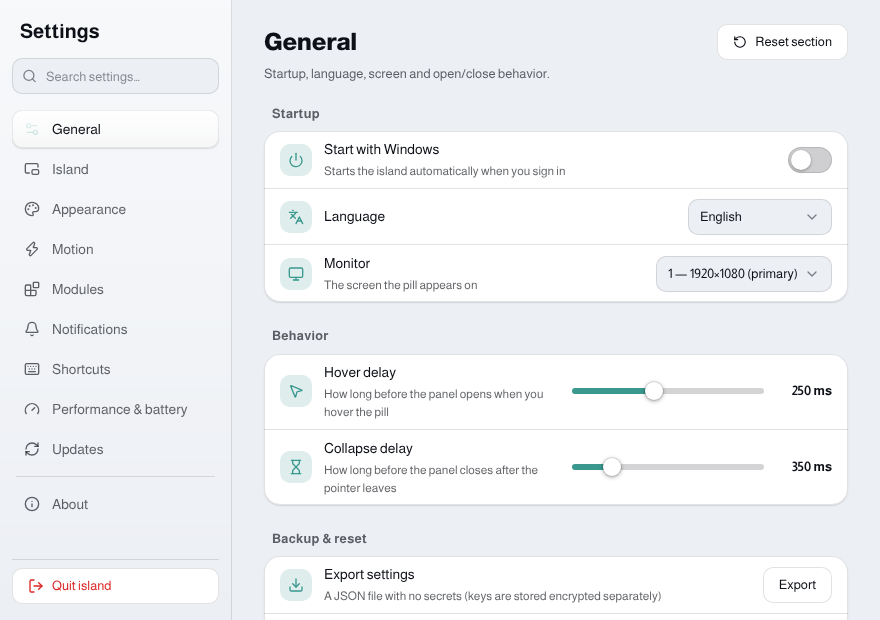
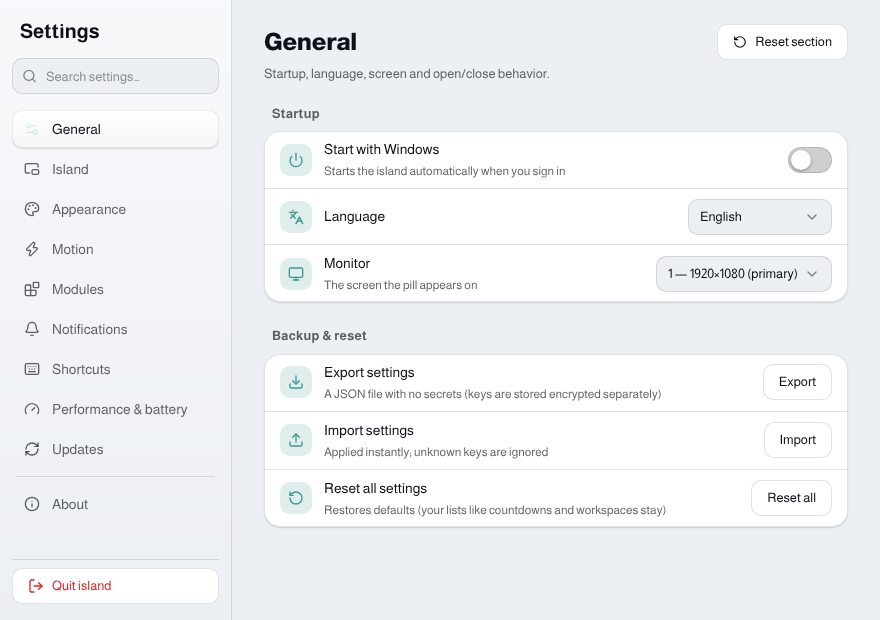
docs+screens: T03/T04 status, acceptance checklist, screenshots, package scripts
Claude-Session: https://claude.ai/code/session_0195km4LqoNMTRS3HcD7VYAG

diff --git a/docs/STATUS.md b/docs/STATUS.md
@@ -1,4 +1,5 @@
 # حالة المشروع
+- **T04 glass:** السبب الجذري (تحقّق بقراءة الكود): الأكريليك الأصلي (SWCA) هو الآلية الوحيدة التي تمزج سطح المكتب خلف نافذة غير نشطة، وCSS `backdrop-filter` لا يرى سطح المكتب (WebView2Feedback #4945) ⇒ كان «الشفاف» مستثنى من الأكريليك بصبغة مسطّحة منخفضة الألفا (ورقة باهتة)، و«Fluent Mica/Liquid» لا يختلفان عن Crystal إلا بقيم blur/saturation معطّلة، وكل انتقال يمرّ بسطح ~0.62 بلا تمويه، وشرط `opacity ≥ .99` يمنع الأكريليك عند الشفافية < 100. **الإصلاح:** `backdrop.rs` (Style Frosted/Clear + `style_alpha` + صبغة ABGR، المفتاح بلا الأسلوب فتحديث الصبغة بلا مسح) · `island_backdrop(…, style)` (IPC.md) · `useBackdrop.ts`/`Pill.tsx` (الأسلوبان يطلبان الأكريليك، `ready = … opacity > 0`، حالة `pending`) · `island.css` (سطح واحد: شفاف عند win10، شبه معتم .92–.96 عند pending/none/الاحتياط، تلاشٍ 160ms، لا backdrop-filter ولا ::after) · `appearance.ts` (أربعة إعدادات مسبقة حقيقية frosted/smoked/clear/minimal بلا blur/saturation) · الإعدادات (حذف منزلقي blur/saturation، بطاقات خلفية بمعاينات صحيحة) · ترحيل v3 (glassStyle المفقود ⇒ crystal). **اختبارات:** `npm run test:glass` · `test:appearance` · `scripts/t04.regression.cjs` · cargo (اختبارات `backdrop.rs` النقية في crate Linux منفصل + `cargo check --target x86_64-pc-windows-gnu` بلا تحذيرات). **قائمة قبول على ويندوز:** (1) Frosted داكن/فاتح فوق صفحة متصفح مزدحمة: سطح المكتب مموَّه ظاهرًا بلا ورقة حليبية والنص مقروء. (2) Clear داكن/فاتح: سطح مكتب مموَّه بتظليل خفيف (ليس غشاءً مسطّحًا). (3) فتح/إغلاق اللوحة 10×: لا وميض باهت (سطح شبه معتم يتلاشى إلى الأكريليك). (4) كل إعداد مسبق من الأربعة مختلف وصحيح؛ منزلق التظليل يتغيّر حيًّا بلا وميض. (5) opacityRest=80: الأكريليك مطبَّق. (6) «تأثيرات الشفافية» OFF في ويندوز: سطح شبه معتم بلا غشاء؛ ON: يعود الأكريليك. (7) العيون كما هي. *لم يُنفَّذ تلميح «تأثيرات الشفافية مطفأة» تحت المادة: يحتاج قراءة نتيجة island_backdrop من نافذة الإعدادات (IPC جديد) — تُرك وفق التعليمات.*
 - **T03 (إعادة تصميم الجزيرة):** (1) ثلاث حالات pill/peek/panel بآلة حالات خالصة `src/islandMachine.ts` (مهلة فتح hoverDelayMs، إغلاق 300/500ms، عجلة بخنق 280ms، لمحة بأربع بطاقات player/today/weather/timer بترتيب `peekCardOrder`، عجلة اللوحة تقلّب التبويبات بلا التفاف ولا خطف من قائمة تمرَّر) + نوابض مشتقة `src/islandMotion.ts` (stiffness=(2π/d)²، damping=4π(1−b)/d، mass 1؛ لمحة (d,b)، لوحة (1.1d,b)، إغلاق (0.9d,0) — الجدول المرجعي للأنماط الخمسة مُختبر في `scripts/island.test.mjs`). (2) النافذة الأصلية ثابتة 800×500 شفافة؛ `report_island_rect` يضبط منطقة النافذة (اختبار إصابة حقيقي بلا استطلاع) ولا يغيّر حجمها أبدًا (`win.rs`/`backdrop.rs`). (3) المشغّل: غلاف/تدرّج لون من الغلاف (fast-average-color)/خلفية ضبابية/مؤشر bars|wave من `media:bands` أو اصطناعي/شارة مصدر/تقدّم 1ث بـscaleX/أزرار؛ حلقة rAF فقط أثناء التشغيل والظهور ثم تهبط وتتوقف. (4) تبديل المحتوى: خروج 120ms ثم دخول 240/300ms (÷motionSpeed)، تقليل الحركة ⇒ قفز الحجم + تلاشٍ 150ms (أُصلح أيضًا: قاعدة CSS للوضع reduced كانت تُنعّم width/height). (5) العيون كما هي (تتلاشى مع المحتوى وتعود) — اختبار مطابقة للأساس `scripts/eyes.baseline.json`. (6) الإعدادات: صفوف جديدة في الجزيرة/المظهر/الحركة/الوسائط + ترحيلات (انظر IPC.md). (7) لا تداخل: تدقيق هندسي لكل العروض `scripts/layout.regression.cjs` (حبة/لمحة/لوحة بكل تبويب/إعدادات، RTL، عناوين طويلة) — وأُصلح تداخل بطاقات الرئيسية بتمرير داخلي وشريط تبويبات يمرَّر أفقيًا.
 - **T02 (تقرير المالك على v1.0.45):** (1) `settings_set` كان يعيد التموضع لـ`monitor/offsetX/underTaskbar` فقط ⇒ `offsetY/pillPosition` بلا أثر؛ أُضيفا + إعادة تموضع عند تغيّر الشاشات/DPI/منطقة العمل (`fullscreen.rs` نافذة مخفية) وعند الإقلاع. (2) «تحت شريط المهام» أُزيل: لا أثر له إلا لشريط مهام علوي (غير ممكن في ويندوز 11)؛ الموضع دائمًا من منطقة العمل. (3) `hideInFullscreen` أُعيدت كتابته حدثيًا (`fullscreen.rs`): SHQueryUserNotificationState + مستطيل يغطي الشاشة بلا شريط عنوان، إخفاء كلي، لمس الحافة العليا يُظهر والمغادرة تُخفي، بلا استطلاع في الخمول. (4) وضع تبويب المتصفح أُزيل كاملًا (+ حذف المفتاح من kv). (5) الزجاج: سبب «الورقة الباهتة» تراكب طبقات (تدرّج أبيض + ::after + بطاقات بـbackdrop-filter فوق الأكريليك) ⇒ سطح واحد لكل أسلوب (انظر GLASS.md)؛ لقطات `docs/screenshots/style-*`. (6) `springStyle` يحكم كل النوابض (لا island/content فقط) و`reduceMotion`/تفضيل النظام يقلّصان لتلاشٍ قصير؛ `scripts/motion.regression.cjs` يقيس فتح اللوحة: حاد ≈220ms · ناعم ≈310 · هادئ ≈390. (7) أوصاف سطر واحد (عربي أولًا) لكل إعداد غير بديهي. (8) «اليوم»: لم يُعاد إنتاج العطل في الاختبار (الرئيسية والنظام يتبعان المفتاح فورًا — `t02.regression.cjs`)؛ وُضِّح نطاق المفتاح (بطاقة الهجري/الصلاة؛ الطقس بمفتاحه). (9) الطقس: الإخفاق الصامت (offline ⇒ لا بلاطة، وEco يمنع الجلب بلا إشعار) استُبدل بحالة خطأ صريحة + إعادة محاولة؛ مدينة مستقلة `weatherCity` الافتراضية المدينة المنورة؛ إعادة محاولة نقل + قيمة قديمة عند الفشل؛ لم أستطع اختبار الشبكة الحقيقية من هنا. (10) الكلمات أُزيلت كاملة. (11) أصوات التنبيه: 5 أصوات مولَّدة بـWebAudio + «بلا صوت» + معاينة + مستوى (`docs/ASSETS.md`).
 - **تصميم موحّد (Liquid Glass + Fluent 2) — أحدث تغيير:** (1) `src/tokens.css` + `src/tokens.ts` مصدر الرموز الوحيد (زوايا/مسافات/خط/ظلال/حركة/ألوان فاتح وداكن/زجاج/أبعاد الحبة واللوحة)؛ `island.css` صار طبقة مرادفات فوقه وكُنست ألوان المحرّر/التقاط الشاشة/اليوم/مؤشر الخصوصية إلى الرموز. (2) `src/appearance.ts` (منطق خالص: متغيرات المظهر، إعدادات مسبقة، ترحيل، تصدير/استيراد، تباين WCAG) + `useSettings.ts` يطبّق المظهر حيًّا على `<html>`. (3) زجاج بأسلوبين `glassStyle=crystal|clear` (CSS: حافة mask + لمعة + توهّج/عمق + scrim) + احتياط مصبوغ عند Eco/«تقليل الشفافية» (`backdrop.rs` يقرأ EnableTransparency) — انظر `docs/GLASS.md`. (4) شكل الحبة ثابت: أُزيل `alertSz`/`compactWidth` فالتنبيه/النشاط/المؤقّت/البطارية داخل نفس الحبة، ولا تُقاس النافذة قبل وصول الإعدادات؛ اختبار `scripts/shape.regression.cjs`. (5) الإعدادات أُعيد تصميمها (شريط جانبي: عام·الجزيرة·المظهر·الحركة·الوحدات·التنبيهات·الاختصارات·الأداء·التحديثات + «حول» منفردة، بحث حيّ، صفوف 56px، مسجّل اختصارات، إعادة ضبط القسم/الكل، استيراد/تصدير JSON، زر «إغلاق الجزيرة» أحمر أسفل الشريط). (6) مفاتيح جديدة: `glassStyle accentColor borderStrength shadowStrength cornerStyle fontScale density pillRadius offsetY pillPosition animSpeed springStyle reduceMotion settingsVersion` + `themeMode` يقبل `system` (الافتراضي) والمادة الافتراضية زجاجية؛ `offsetY/pillPosition` تُطبَّق في `win.rs`. (7) ترحيل v2: حبة أصغر من 220×34 تعود للافتراضي (تراجع الانكماش). لقطات: `docs/screenshots/` (`scripts/screens.cjs`). لم يُتحقق على ويندوز فعليًا: وميض/تأخّر السحب مع الأكريليك، وقراءة EnableTransparency.
